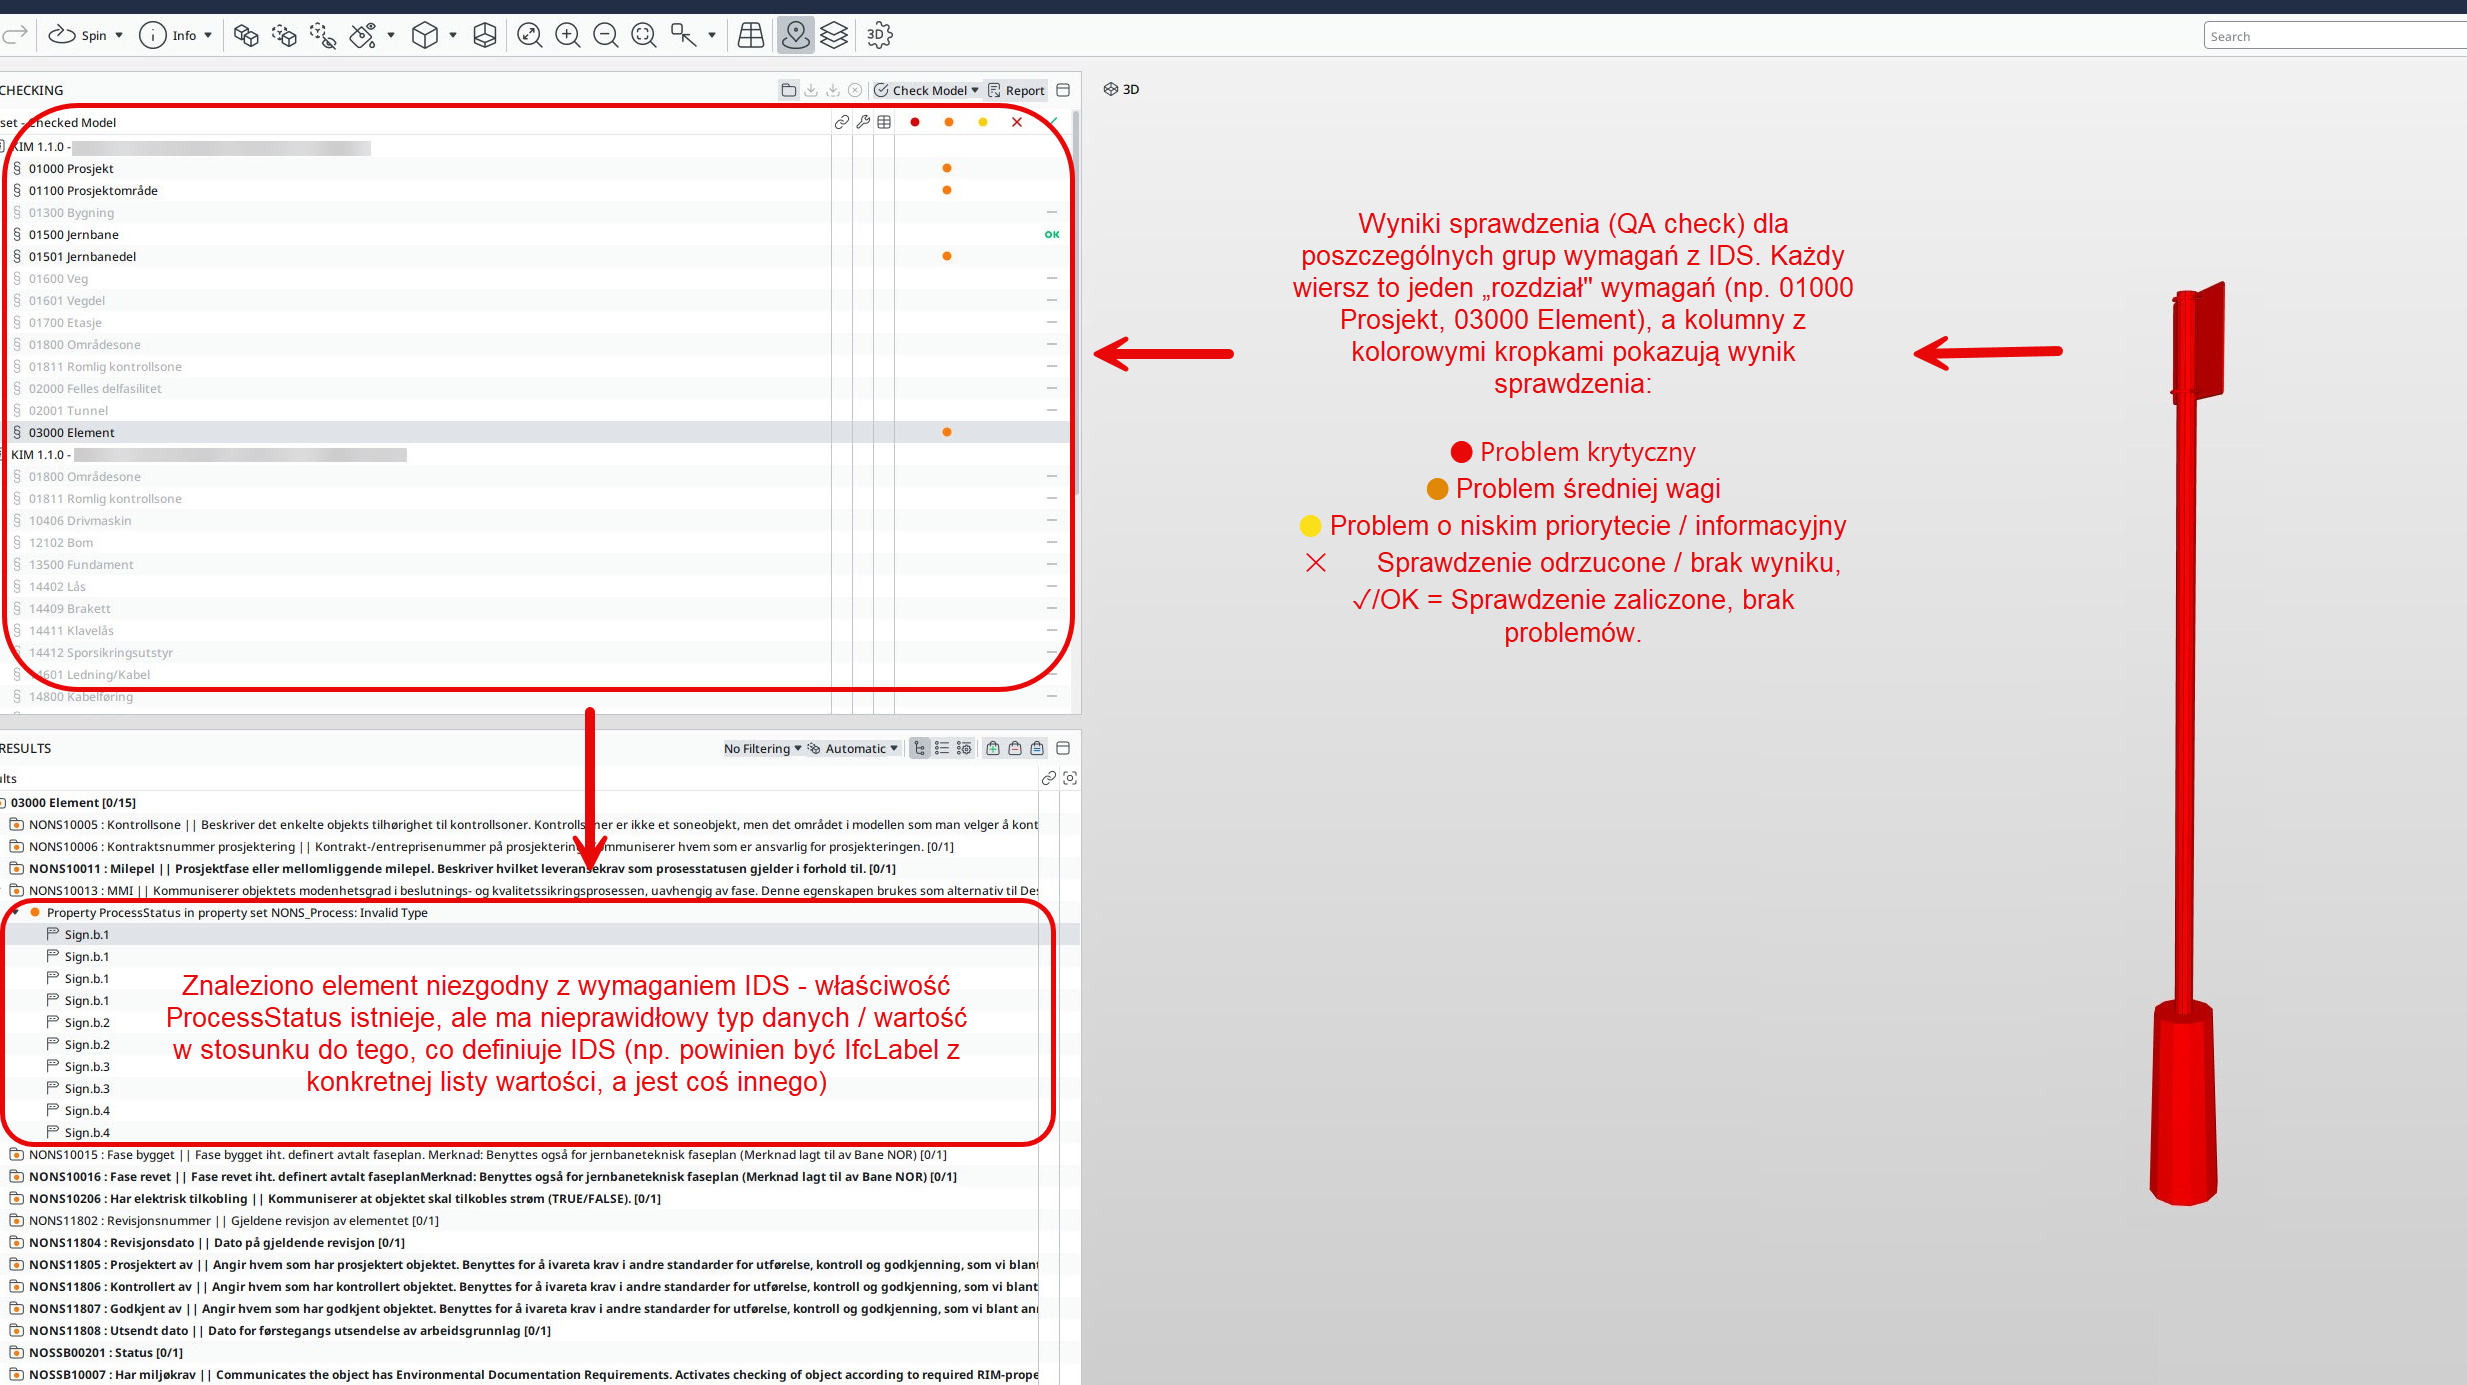
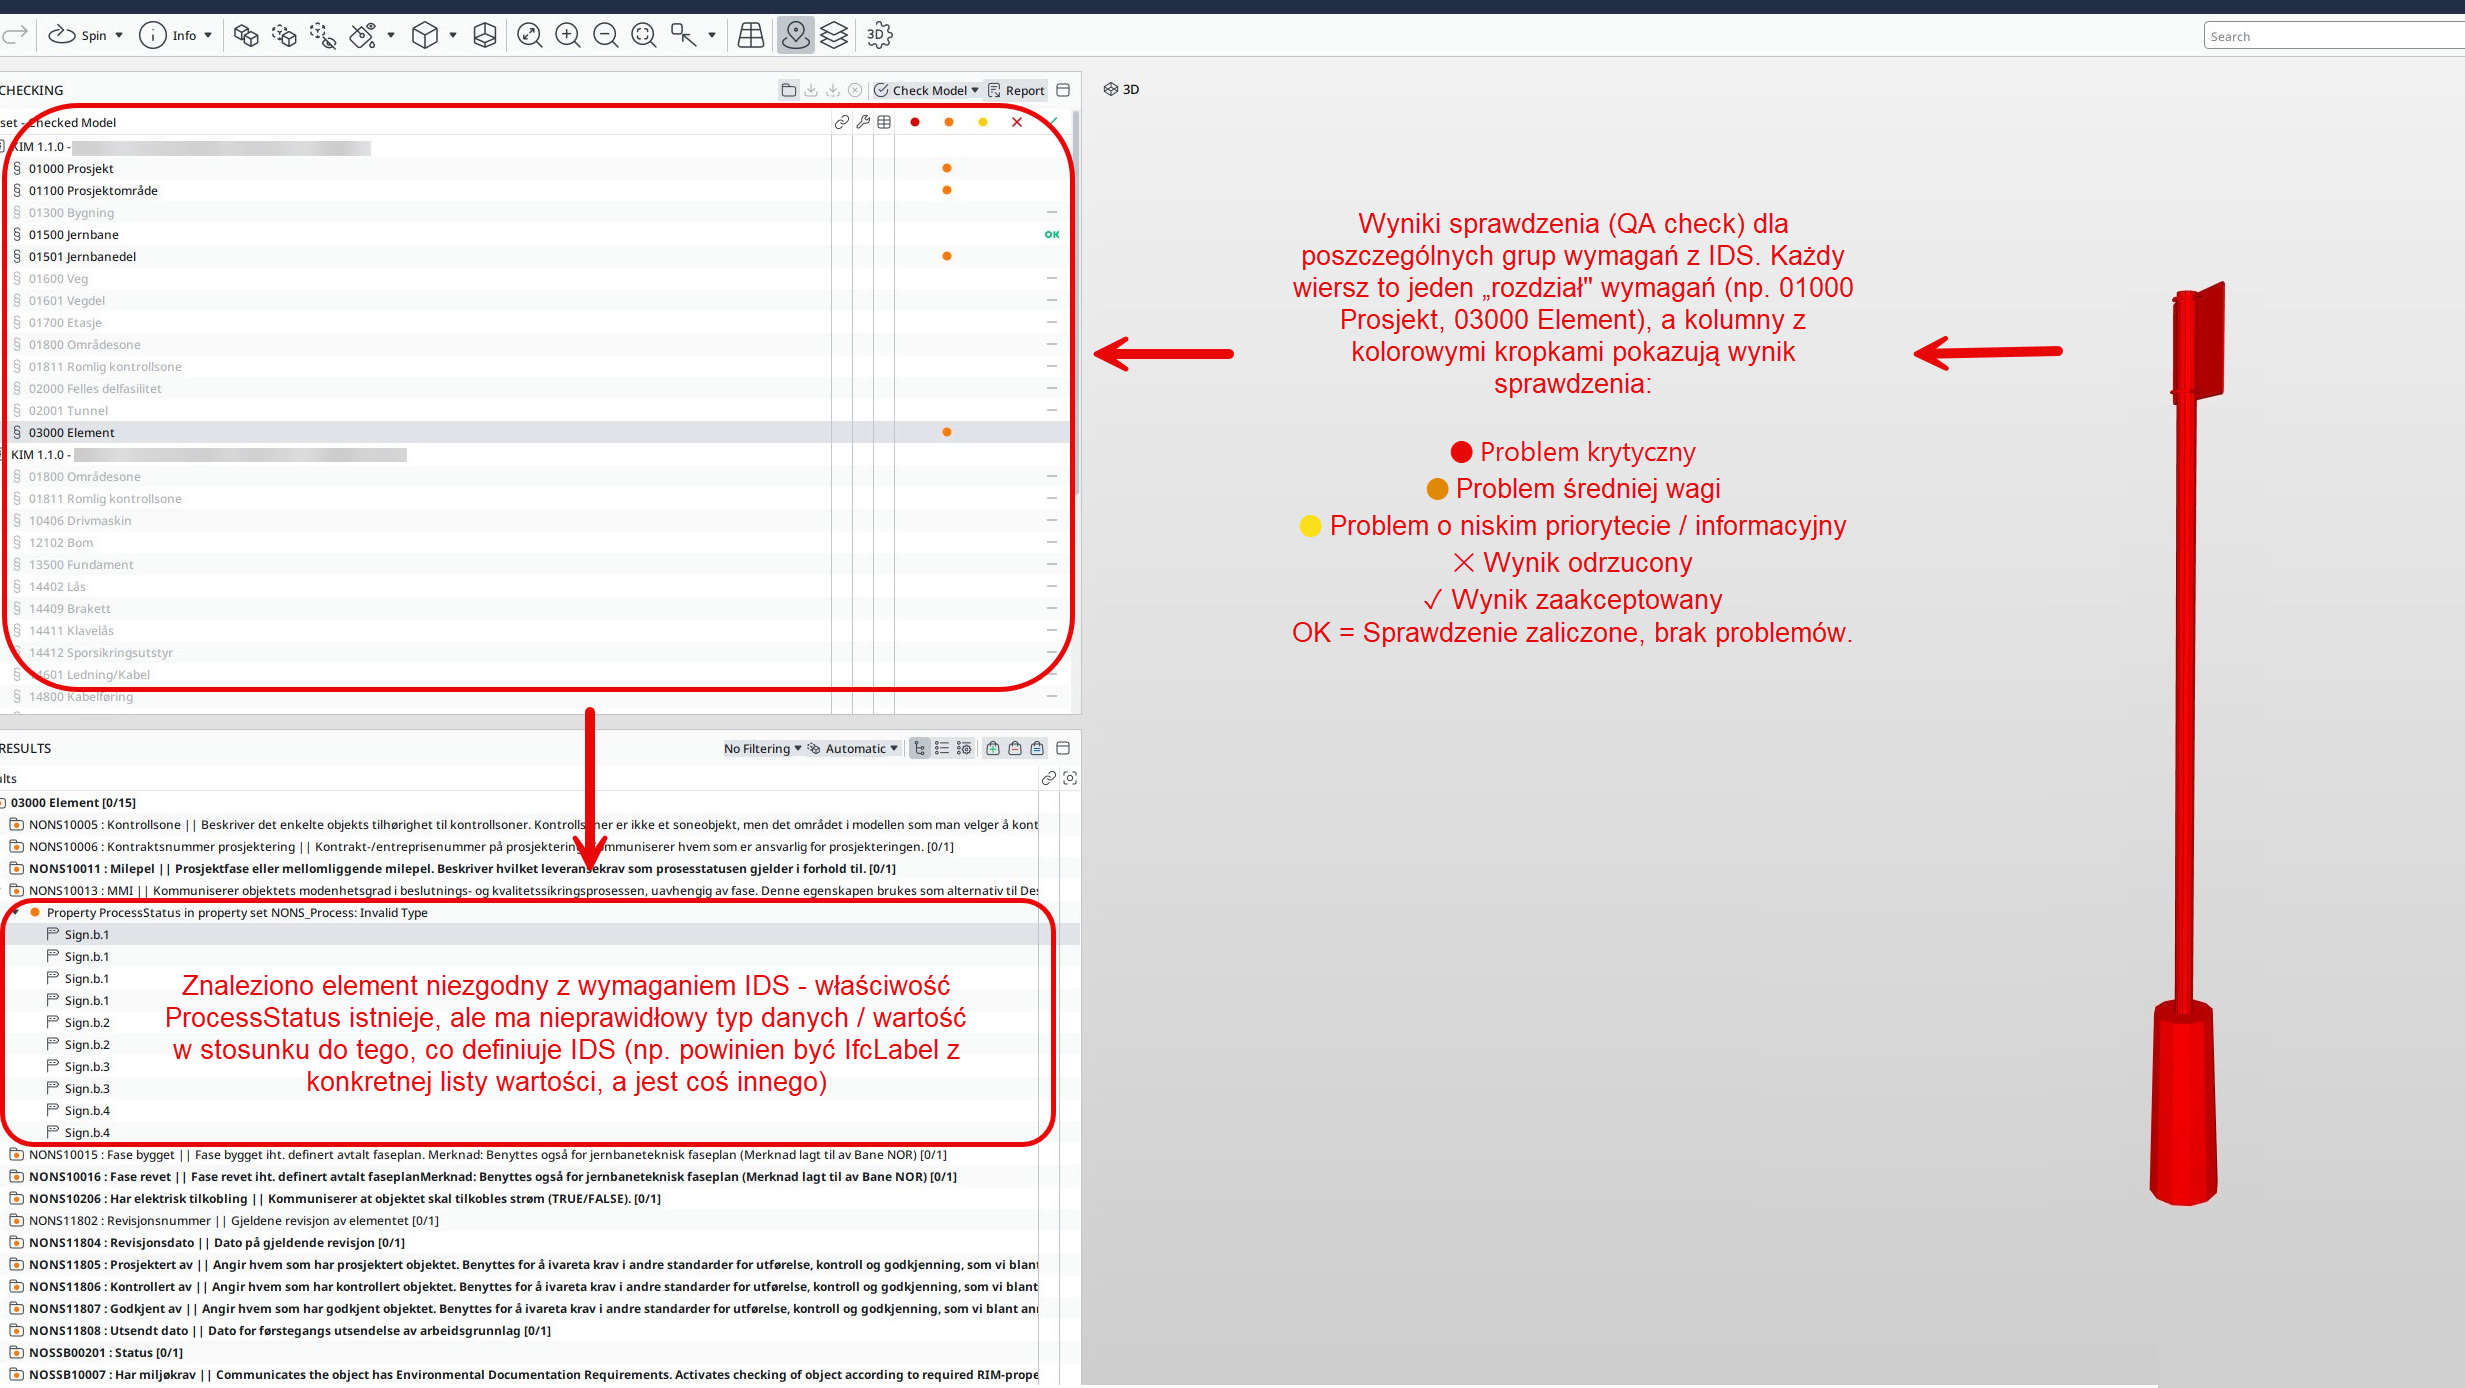
update screenow Solibri i zmiana na haczylui w opisie Natalii

diff --git a/_sass/_portfolio-tiles.scss b/_sass/_portfolio-tiles.scss
@@ -1198,6 +1198,25 @@
   text-align: justify;
 }
 
+// Checklist — bullet points replaced with checkmarks
+.project-tile__text-area ul.checklist {
+  list-style: none;
+  padding-left: 0;
+
+  li {
+    padding-left: 1.5em;
+    position: relative;
+
+    &::before {
+      content: "✓";
+      position: absolute;
+      left: 0;
+      color: var(--firstBlue-color);
+      font-weight: 700;
+    }
+  }
+}
+
 // Fade spacer - placeholder for gradient overlay
 .project-tile__fade {
   position: relative;

diff --git a/en/expertise-collection.md b/en/expertise-collection.md
@@ -567,7 +567,7 @@ excerpt: "Complete collection of our expertise. Filter by discipline, technology
               <p class="project-tile__description">
                 The script gives us more freedom in tailoring how we want to create reports and check IFC files. The code can be adapted to specific needs. For example:
               </p>
-              <ul class="project-tile__description">
+              <ul class="project-tile__description checklist">
                 <li>checking name and longname values for each entity,</li>
                 <li>verifying MMI values,</li>
                 <li>checking required property sets,</li>

diff --git a/pl/expertise-collection.md b/pl/expertise-collection.md
@@ -567,7 +567,7 @@ excerpt: "Kompletna kolekcja naszego doświadczenia. Filtruj według dyscypliny,
               <p class="project-tile__description">
                 Skrypt daje nam więcej wolności w dopasowaniu, w jaki sposób chcemy tworzyć raporty i sprawdzać pliki IFC. Kod można dostosować do konkretnych potrzeb — na przykład:
               </p>
-              <ul class="project-tile__description">
+              <ul class="project-tile__description checklist">
                 <li>weryfikacja wartości name i longname dla każdej encji,</li>
                 <li>sprawdzanie wartości MMI,</li>
                 <li>kontrola wymaganych property setów,</li>